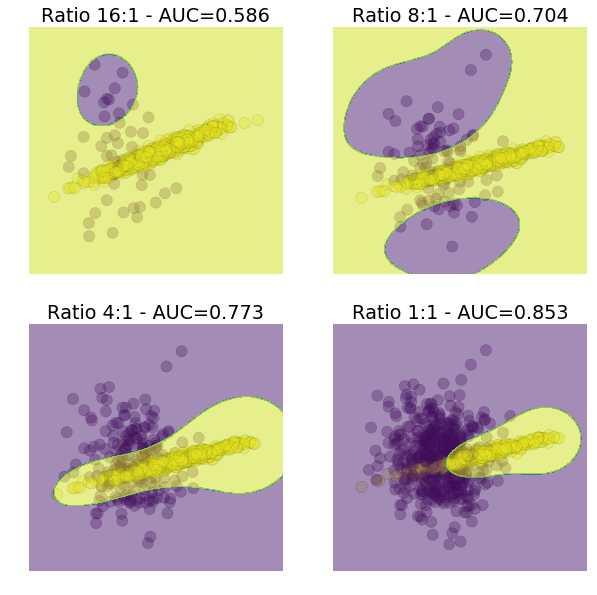
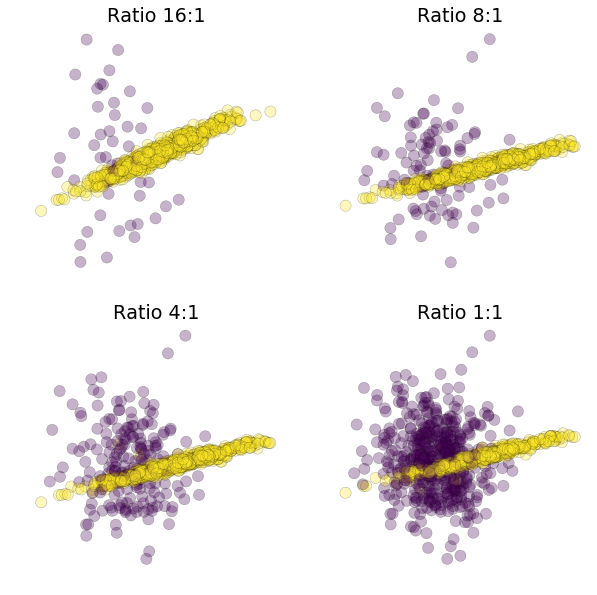
corrections

diff --git a/2018_euroscipy/index.html b/2018_euroscipy/index.html
@@ -134,10 +134,21 @@ class: center, middle
 for weight_minority in [0.05, 0.1, 0.2, 0.5]:
     X, y = make_classification(weight=(weight_minority, 1 - weight_minority))
     X_train, X_test, y_train, y_test = train_test_split(X, y, stratify=y)
+```
+<center>![:scale 60%](img/new_img/imbalanced_ratio.png)</center>
+
+
+---
+### Learning becomes difficult
+
+```python
+for weight_minority in [0.05, 0.1, 0.2, 0.5]:
+    X, y = make_classification(weight=(weight_minority, 1 - weight_minority))
+    X_train, X_test, y_train, y_test = train_test_split(X, y, stratify=y)
     svc = SVM().fit(X_train, y_test)
     roc_auc_score(y_test, svc.predict(X_test))
 ```
-<center>![:scale 60%](img/new_img/imbalanced_ratio.png)</center>
+<center>![:scale 60%](img/new_img/imbalanced_svm.png)</center>
 
 ---
 class: center, middle
@@ -229,11 +240,11 @@ for sampling_strategy in [0.3, 0.5, 0.7, 1]:
 count: false
 ## Supervised learning - Resampling
 
-<center>![:scale 70%](img/new_img/resampling.png)</center>
+<center>![:scale 85%](img/new_img/resampling.png)</center>
 
 ---
 class: center, middle
-# What scikit-learn offers?
+# What scikit-learn is missing for sampling?
 
 ---
 ### Transformers in scikit-learn
@@ -344,7 +355,7 @@ class: center, middle
 Counter({-1: 5809, 1: 5809})
 ```
 
-### Replaced `ratio` by `sampling_strategy`
+### `sampling_strategy` parameters
 
 * `str`: `'auto'`, `'all'`, `'minority'`, `'majority'`, `'not_minority'`
 * `float`: ratio |majority| / |minority|
@@ -371,7 +382,7 @@ Counter({-1: 5809, 1: 5809})
 * SMOTE + ENN / SMOTE + Tomek
 
 ---
-## How to use them?
+## How to use samplers in practise?
 
 ### `Pipeline` and `make_pipeline`
 
@@ -403,6 +414,8 @@ Counter({-1: 5809, 1: 5809})
 ```
 
 ---
+## Addtional helper modules
+
 ### Metrics module
 
 ```python
@@ -427,6 +440,8 @@ Complementary metrics specific to imbalance data set evaluation
 ```
 
 ---
+## Addtional helper modules
+
 ### Datasets module
 
 #### `fetch_datasets`
@@ -437,9 +452,7 @@ Complementary metrics specific to imbalance data set evaluation
 {'DESCR': 'satimage',
  'data': array([[  92.,  115.,  120., ...,  107.,  113.,   87.],
                 [  84.,  102.,  106., ...,   99.,  104.,   79.],
-                [  84.,  102.,  102., ...,   99.,  104.,   79.],
                 ...,
-                [  56.,   68.,   91., ...,   83.,   92.,   74.],
                 [  56.,   68.,   87., ...,   83.,   92.,   70.],
                 [  60.,   71.,   91., ...,   79.,  108.,   92.]]),
  'target': array([-1, -1, -1, ..., -1, -1, -1])}
@@ -465,7 +478,7 @@ class: center, middle
 Adding new methods:
 
 * `BalancedBaggingClassifier` / `BalancedRandomForestClassifier`
-* `EasyEnsembleClassifier`/ `BalanceCascadeClassifier` (in progress)
+* `EasyEnsembleClassifier`/ `BalanceCascadeClassifier`
 * `FunctionSampler` -> [Example](http://contrib.scikit-learn.org/imbalanced-learn/dev/auto_examples/plot_outlier_rejections.html#sphx-glr-auto-examples-plot-outlier-rejections-py)
 * Keras and tensorflow mini-batches sampling -> [Examples](
 http://contrib.scikit-learn.org/imbalanced-learn/dev/auto_examples/applications/porto_seguro_keras_under_sampling.html#sphx-glr-auto-examples-applications-porto-seguro-keras-under-sampling-py)
